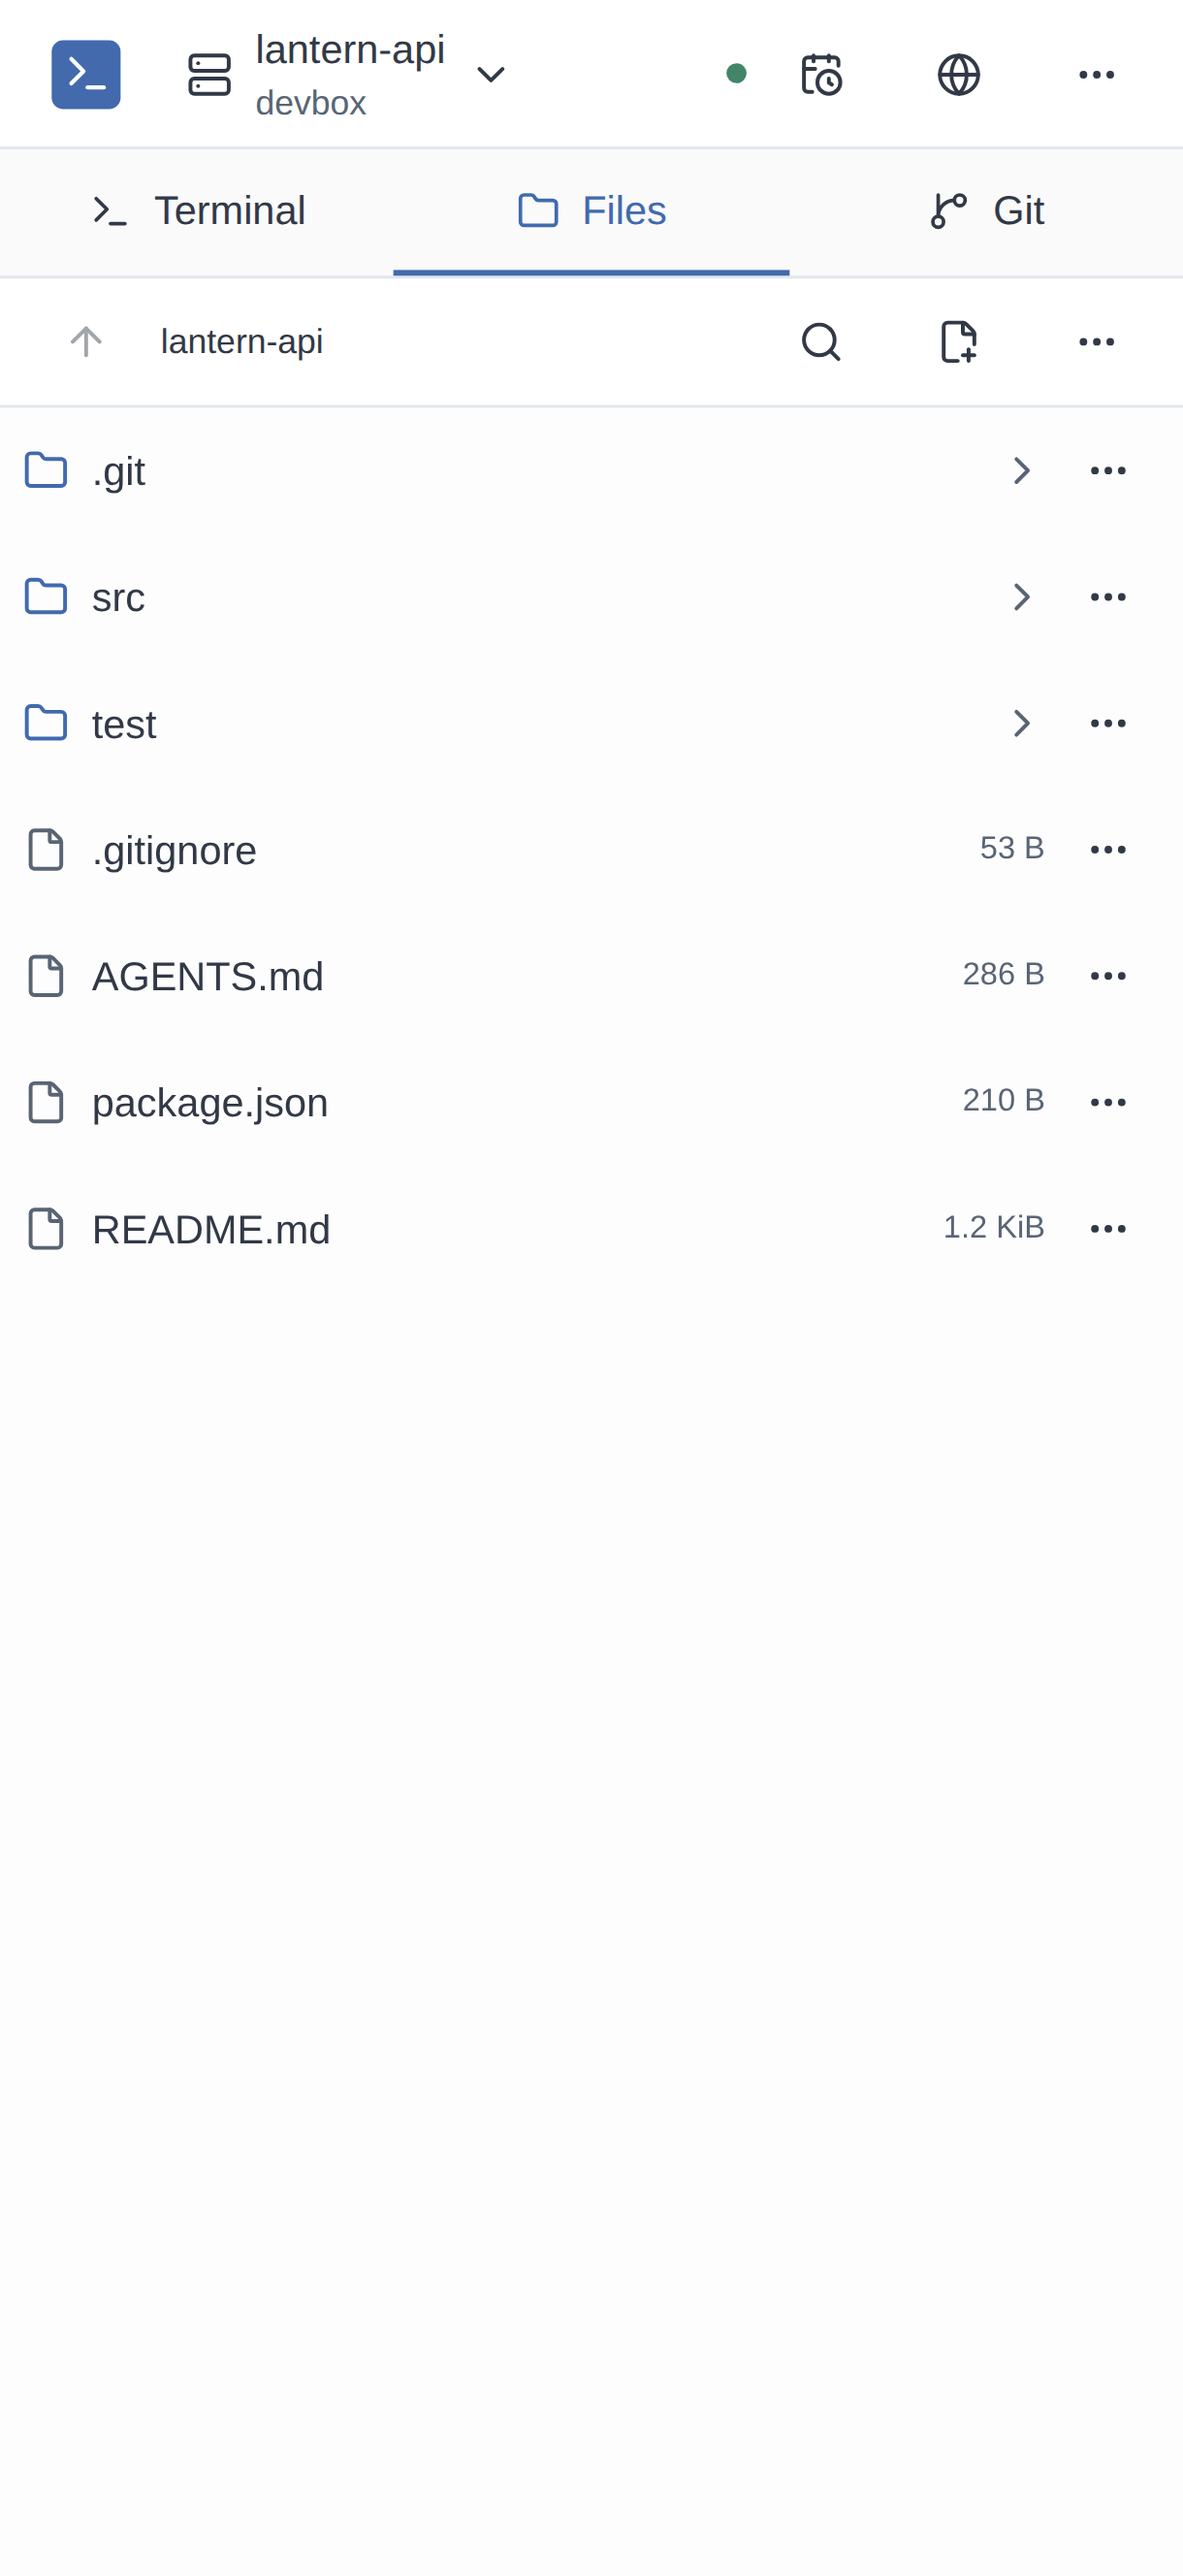
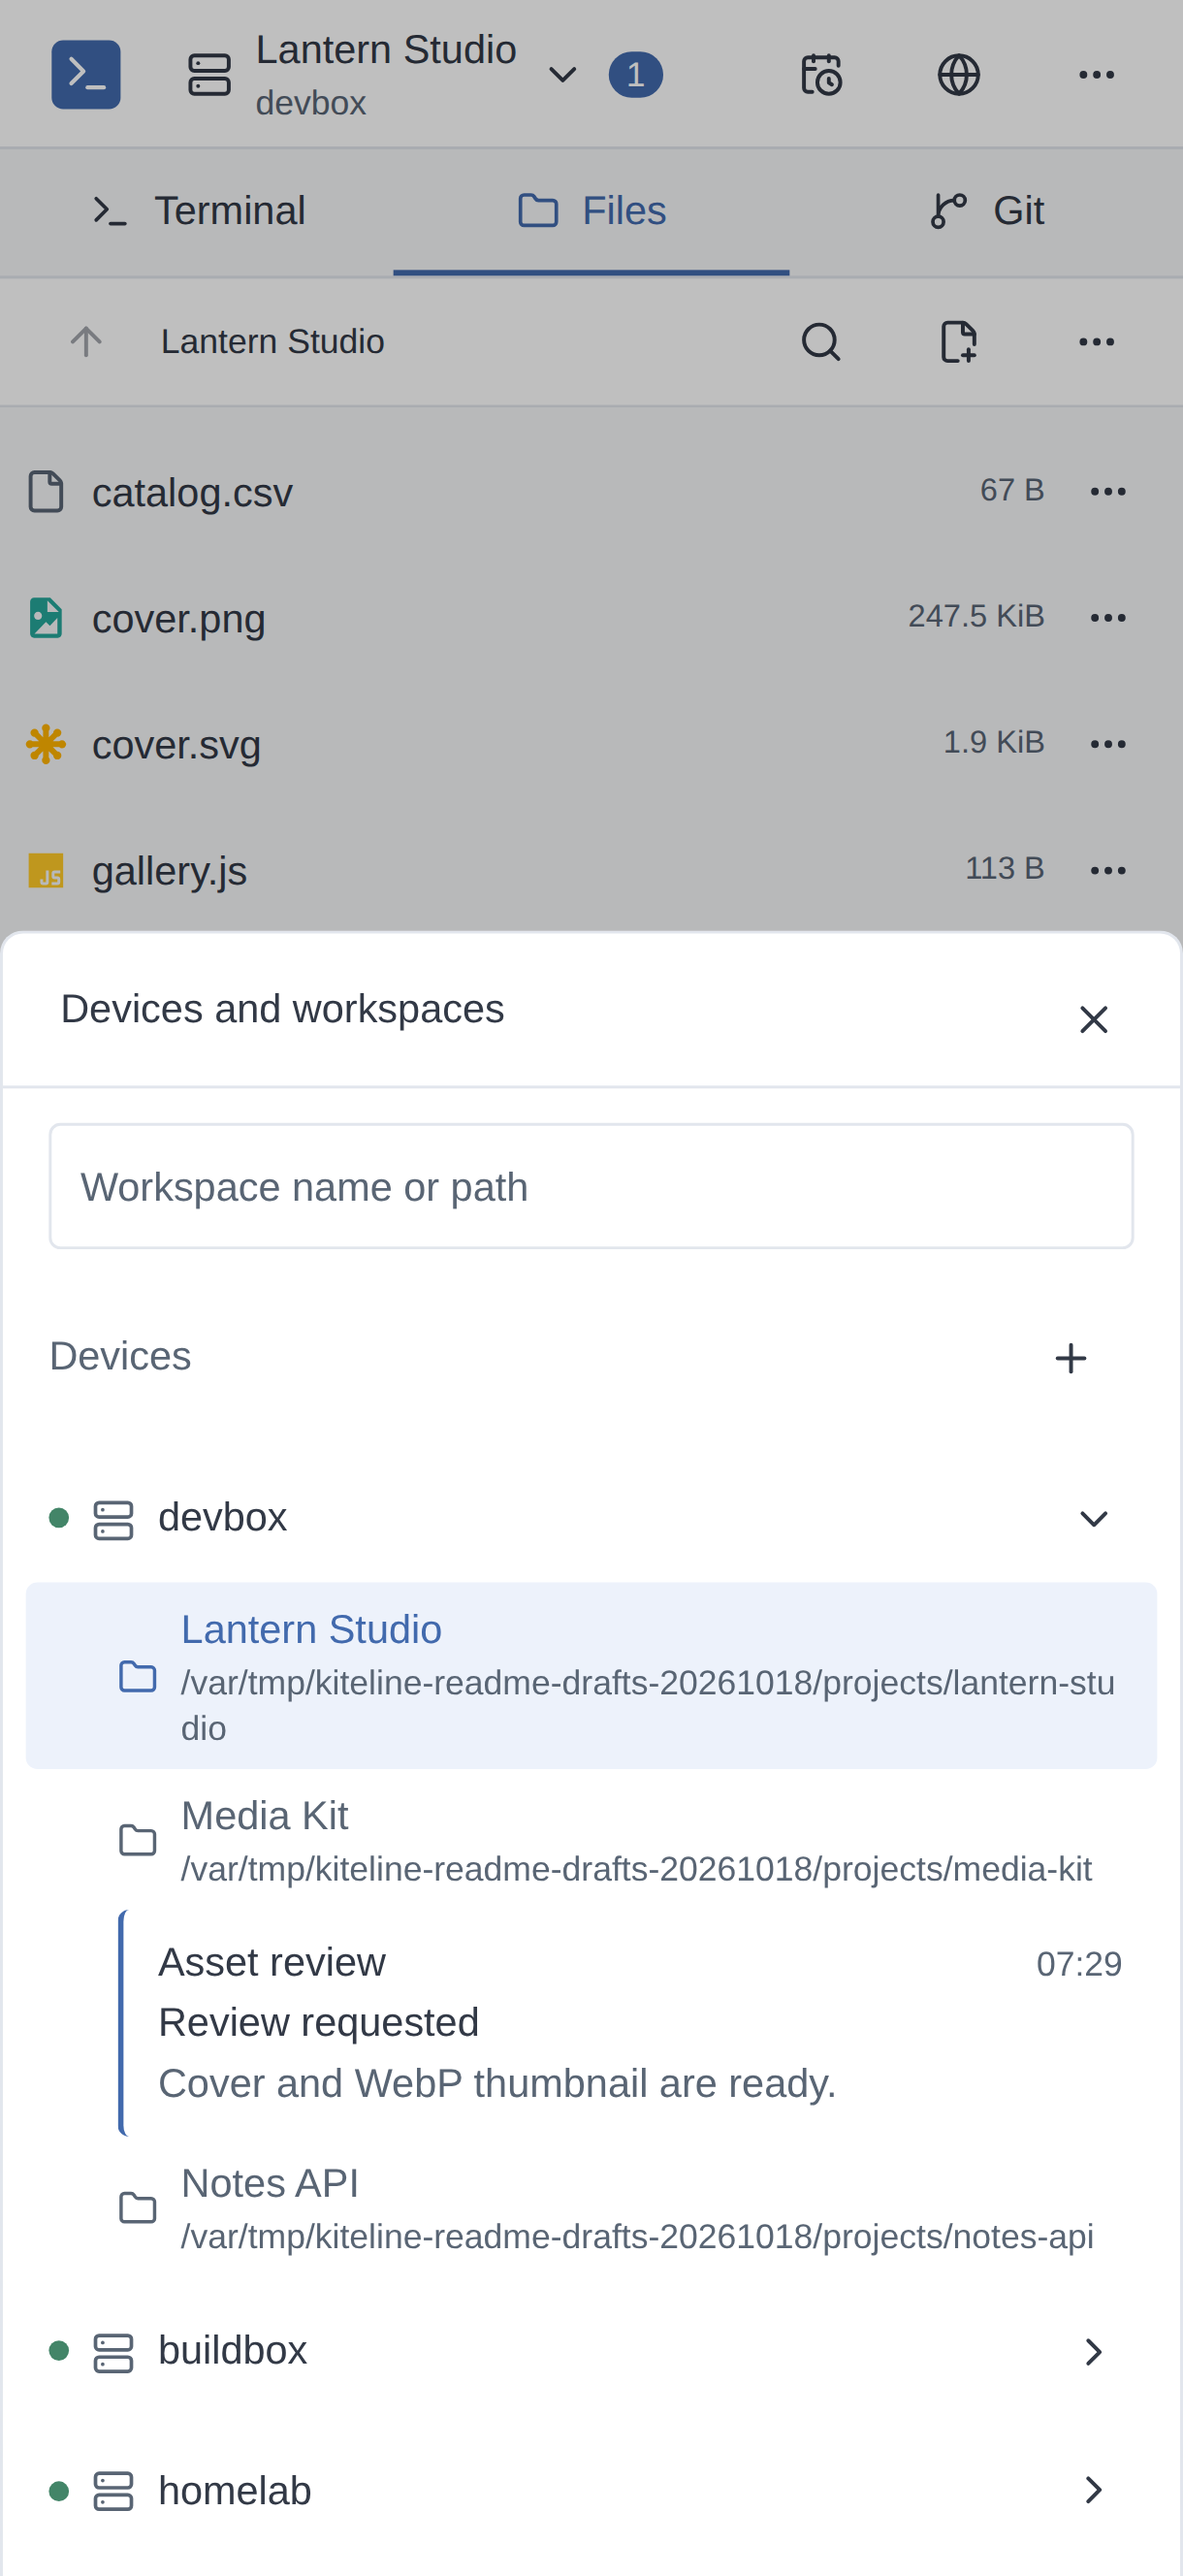
docs(readme): refresh screenshots and feature overview

diff --git a/README.en.md b/README.en.md
@@ -2,28 +2,29 @@
 
 [中文](README.md)
 
-Kiteline is a self-hosted workbench for coding agents. Claude Code, Codex, and any other command-line tools run with their native TUIs on your own machines. Manage multiple machines and projects from your browser, and move seamlessly between desktop and phone in the same terminal session.
+Kiteline is a self-hosted workbench for coding agents. Claude Code, Codex, and other command-line tools run with their native TUIs on your own machines. Manage multiple machines and projects from your browser, and continue the same terminal session on desktop, phone, or the remote CLI.
 
 <p align="center">
-  <a href="docs/assets/readme-desktop.png"><img src="docs/assets/readme-desktop.png" width="820" alt="Desktop: the Lantern API project, three machines, ten workspaces, terminal groups, and one pane on the left with two stacked on the right"></a>
+  <a href="docs/assets/readme-desktop.png"><img src="docs/assets/readme-desktop.png" width="820" alt="Desktop: Codex, development preview server, and tests in three panes for Lantern Studio, with a workspace notification in the sidebar"></a>
 </p>
 
 <table align="center">
   <tr>
     <td nowrap>
-      <a href="docs/assets/readme-mobile-terminal.png"><img src="docs/assets/readme-mobile-terminal.png" width="260" alt="Opening the same running Lantern API Codex session on a phone"></a>
-      <a href="docs/assets/readme-mobile-files.png"><img src="docs/assets/readme-mobile-files.png" width="260" alt="Browsing Lantern API files on a phone"></a>
-      <a href="docs/assets/readme-mobile-git.png"><img src="docs/assets/readme-mobile-git.png" width="260" alt="Viewing the Lantern API Git diff on a phone"></a>
+      <a href="docs/assets/readme-mobile-terminal.png"><img src="docs/assets/readme-mobile-terminal.png" width="260" alt="Continuing the same Lantern Studio Codex session on a phone, with the task title in the toolbar"></a>
+      <a href="docs/assets/readme-mobile-files.png"><img src="docs/assets/readme-mobile-files.png" width="260" alt="Mobile file manager showing file type icons and expanded workspace notifications, with devices without notifications collapsed"></a>
+      <a href="docs/assets/readme-mobile-git.png"><img src="docs/assets/readme-mobile-git.png" width="260" alt="Viewing the Git diff for gallery.test.js in Lantern Studio on a phone"></a>
     </td>
   </tr>
 </table>
 
-- **Native TUIs**: agents run in real terminals, preserving their original interfaces and interactions. Any command-line tool works without adaptation.
-- **Seamless switching**: open the same terminal session on your computer, phone, and the machine's local terminal at the same time. Output stays in sync, and tasks keep running as you switch devices.
-- **Multiple machines and workspaces**: connect Linux, Windows, and macOS machines, switch between projects, and keep using each machine's existing toolchain and environment.
-- **Terminals, files, and Git**: group and split terminals; the agent session keeps running while you inspect code changes and edit files.
-- **Development previews**: access Web services running on your machines directly in the browser, with support for WebSocket and hot reload.
-- **Scheduled tasks**: run scripts or agents on a cron schedule and keep a record of each run. Agents can also create tasks themselves.
+- **Native TUIs**: agents run in real terminals, preserving their original interfaces and interactions and using each machine's existing toolchain and environment.
+- **Devices and workspaces**: connect Linux, Windows, and macOS machines and switch between project workspaces. Sessions keep running as you move between desktop and phone.
+- **Remote CLI**: attach to the same session from your local terminal, or use short commands to send input, inspect output, and upload or download files.
+- **Terminal notifications**: see notifications and waiting reports sent by programs in the workspace list, and return to the source terminal with a click.
+- **Terminals, files, and Git**: group and split terminals, edit files, preview images and Markdown/HTML drafts, and inspect Git changes while agent sessions keep running.
+- **Development previews**: access Web services on your machines from the browser, with WebSocket and hot reload support.
+- **Scheduled tasks**: run scripts or agents on a cron schedule with a record of each run. Agents can also create scheduled tasks themselves.
 
 ## Get Started
 

diff --git a/README.md b/README.md
@@ -2,27 +2,28 @@
 
 [English](README.en.md)
 
-Kiteline 是一个自托管的 coding agent 工作台。Claude Code、Codex 等任意命令行工具以原生 TUI 运行在你自己的设备上，通过浏览器即可管理多台设备和项目；同一个终端会话可在电脑与手机之间无缝流转。
+Kiteline 是一个自托管的 coding agent 工作台。Claude Code、Codex 等命令行工具以原生 TUI 运行在你自己的设备上，通过浏览器即可管理多台设备和项目；同一个终端会话可在电脑、手机与远程 CLI 之间接续。
 
 <p align="center">
-  <a href="docs/assets/readme-desktop.png"><img src="docs/assets/readme-desktop.png" width="820" alt="桌面端：Lantern API 项目，三台设备、十个工作区，终端分组与左一右二三分屏"></a>
+  <a href="docs/assets/readme-desktop.png"><img src="docs/assets/readme-desktop.png" width="820" alt="桌面端：Lantern Studio 的 Codex、开发预览服务与测试三分屏，侧栏展示工作区通知"></a>
 </p>
 
 <table align="center">
   <tr>
     <td nowrap>
-      <a href="docs/assets/readme-mobile-terminal.png"><img src="docs/assets/readme-mobile-terminal.png" width="260" alt="手机端打开 Lantern API 正在运行的同一 Codex 会话"></a>
-      <a href="docs/assets/readme-mobile-files.png"><img src="docs/assets/readme-mobile-files.png" width="260" alt="手机端浏览 Lantern API 的文件"></a>
-      <a href="docs/assets/readme-mobile-git.png"><img src="docs/assets/readme-mobile-git.png" width="260" alt="手机端查看 Lantern API 的 Git diff"></a>
+      <a href="docs/assets/readme-mobile-terminal.png"><img src="docs/assets/readme-mobile-terminal.png" width="260" alt="手机端接续 Lantern Studio 的同一 Codex 会话，工具栏显示任务标题"></a>
+      <a href="docs/assets/readme-mobile-files.png"><img src="docs/assets/readme-mobile-files.png" width="260" alt="手机端文件管理器展示多种文件类型图标，展开工作区通知并折叠无通知设备"></a>
+      <a href="docs/assets/readme-mobile-git.png"><img src="docs/assets/readme-mobile-git.png" width="260" alt="手机端查看 Lantern Studio 中 gallery.test.js 的 Git diff"></a>
     </td>
   </tr>
 </table>
 
-- **原生 TUI**：agent 运行在真实终端中，保留其原有界面与交互，任何命令行工具无需适配即可使用。
-- **多端无缝流转**：同一个终端会话可同时在电脑、手机和设备本机终端中打开，输出实时同步，切换设备时任务不中断。
-- **多设备与工作区**：接入 Linux、Windows 和 macOS 设备，按项目切换工作区，沿用各设备已有的工具链与环境。
-- **终端、文件与 Git**：终端支持分组和分屏；查看代码改动、编辑文件时，agent 会话保持运行。
-- **开发预览**：在浏览器中直接访问设备上运行的 Web 服务，支持 WebSocket 与热更新。
+- **原生 TUI**：agent 运行在真实终端中，保留其原有界面与交互，沿用设备已有的工具链与环境。
+- **多设备与工作区**：接入 Linux、Windows 和 macOS 设备，按项目切换工作区；切换电脑或手机时，会话继续运行。
+- **远程 CLI**：在本机终端接续同一个会话，也可用短命令发送输入、查看输出和上传下载文件。
+- **终端通知**：在工作区列表查看程序主动发出的通知与等待报告，点击来源回到对应终端。
+- **终端、文件与 Git**：终端分组和分屏，编辑文件、预览图片与 Markdown/HTML 草稿，查看 Git 改动；agent 会话保持运行。
+- **开发预览**：在浏览器中访问设备上的 Web 服务，支持 WebSocket 与热更新。
 - **定时任务**：按 cron 计划在设备上运行脚本或 agent，并保留运行记录；agent 也可自行创建任务。
 
 ## 开始使用
